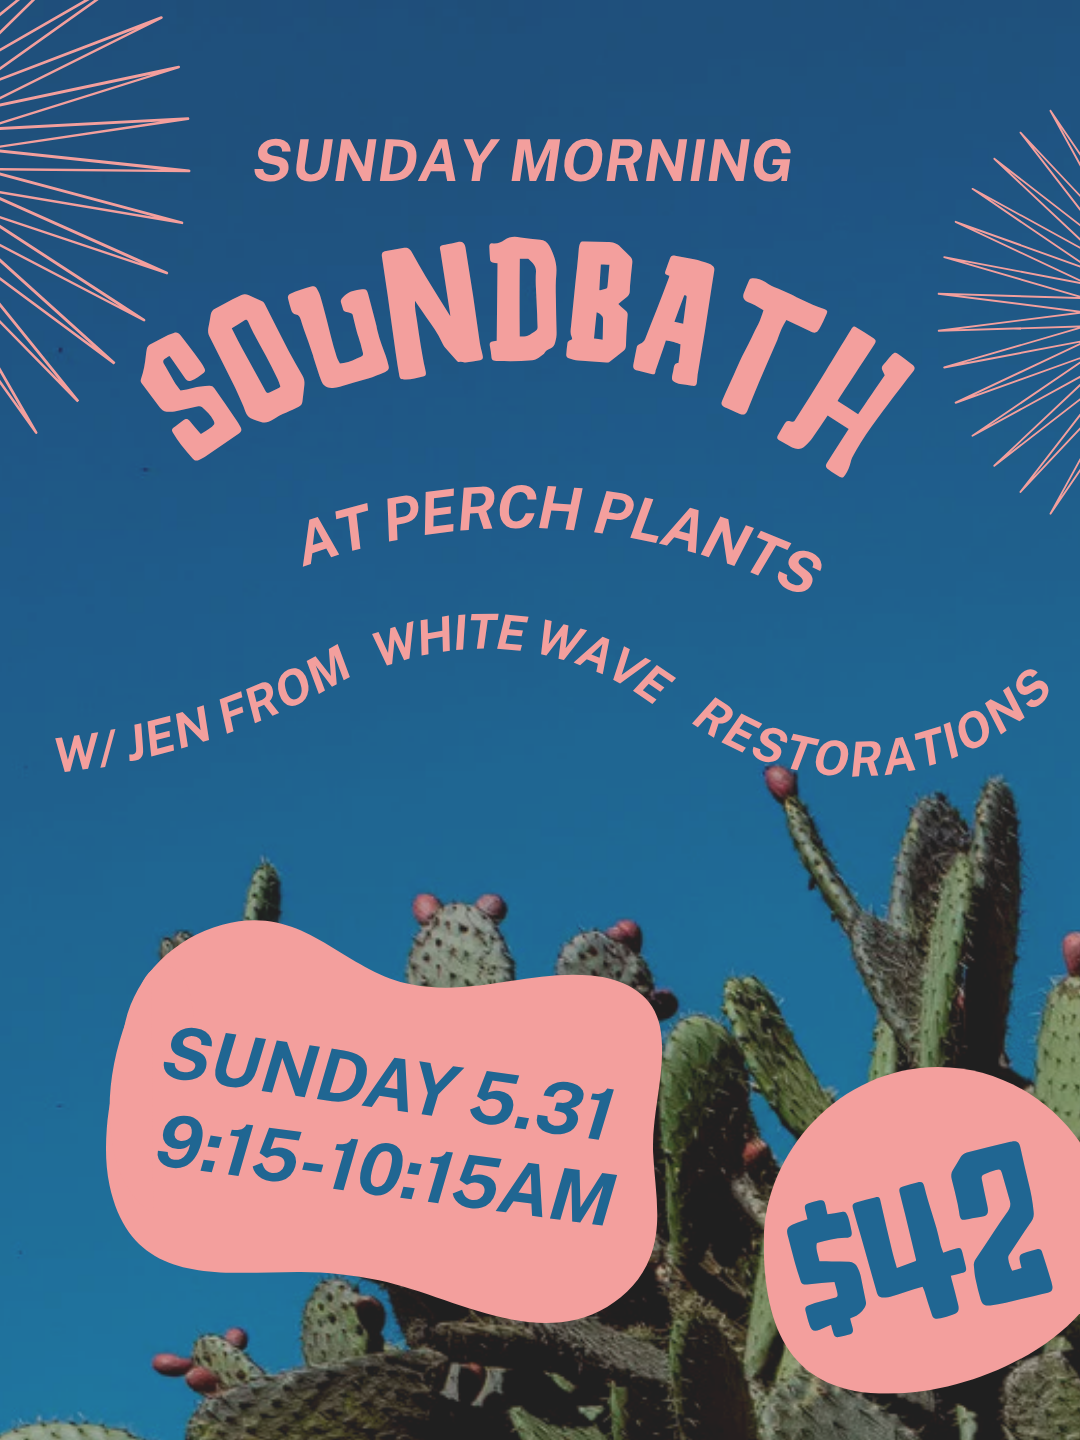
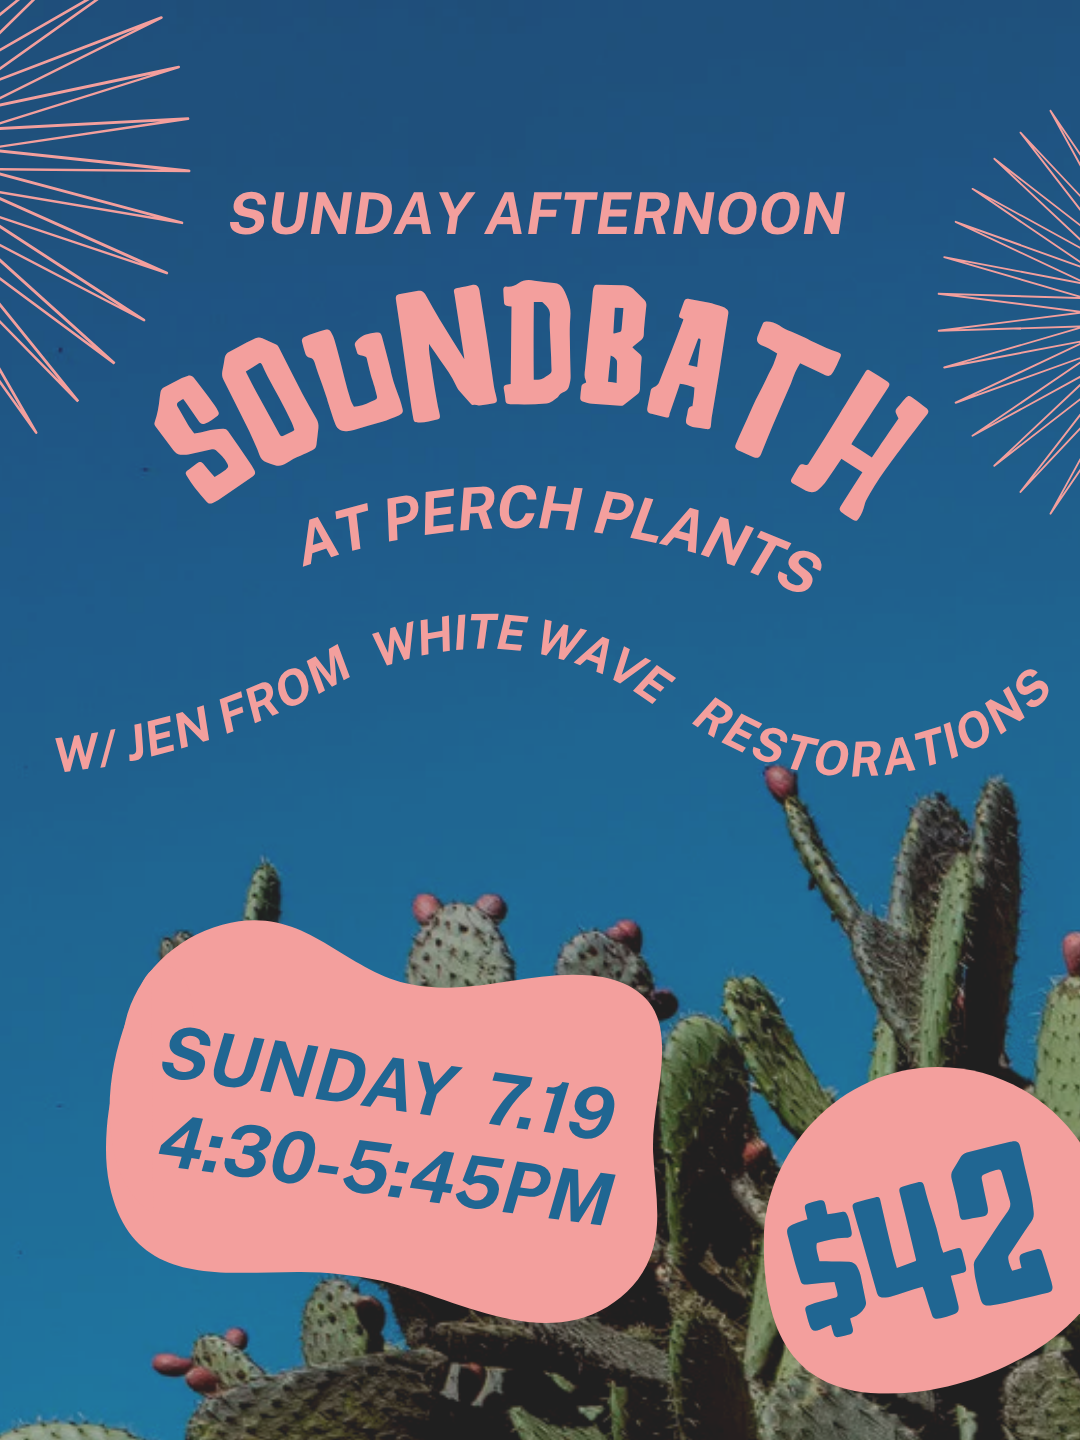
updates bioactive date, adds clipping swap and updated soundbath

Changed region(s): [[0.1222, 0.0938, 0.8556, 0.375], [0.1528, 0.7188, 0.5806, 0.8438]]

diff --git a/index.html b/index.html
@@ -116,12 +116,98 @@
         <div class="eventGroup">
           
           
+          <article class="event">
+            <div class="eventHeader">
+              <img src="./img/clippingswap.jpg" alt="Clipping Swap flyer" class="eventFlyer" />
+              <div class="eventTitle">
+                <h3>Clipping Swap</h3>
+                <p class="eventDate">Thursday 6/25 @ 7-9PM</p>
+              </div>
+            </div>
+            <div class="eventDescription">
+              <p class="eventDescriptionText">
+                Free event. Bring 1-3 clippings.
+              </p>
+              <p class="eventDescriptionText">
+                All plant enthusiast levels welcome.
+              </p>
+              <div class="eventDescriptionText">
+                <ul class="eventListText">
+                  <li>Make sure that your plant appears pest free and healthy before you take a clipping.</li>
+                  <li>Transport your clipping in water or wrap the end in a wet paper towel.</li>
+                  <li>Drop your clipping off on the clipping table and swap it for a new one.</li>
+                  <li>Hang out in Perch and make new plant friends!</li>
+                  <li>Casual come &amp; go. Anytime between 7-9!</li>
+                </ul>
+              </div>
+              <p class="eventDescriptionText">
+                All items at Perch are 10% off on the night of the swap!
+              </p>
+            </div>
+          </article>
+
+          <!-- <article class="event">
+            <div class="eventHeader">
+              <img src="./img/women.png" alt="Women's History Lesson flyer" class="eventFlyer" />
+              <div class="eventTitle">
+                <h3>Women's History Lesson</h3>
+                <p class="eventSubTitle">with Ryan Conroy</p>
+                <strike>
+                  <p class="eventDate">Wednesday 3/25 @ 7PM
+                    <br />Tuesday 3/31 @ 7PM</strike> SOLD OUT!</p>
+              </div>
+            </div>
+            <div class="eventDescription">
+              <p class="eventDescriptionText">
+                Perch Plants is hosting a fun history lesson about local Graceanna Lewis. Learn all about her contributions to botany, nature studies, and social justice work.
+              </p>
+              <p class="eventDescriptionText">
+                You will then build a decorative botany specimen shadowbox to take home, inspired by Graceanna's work.
+              </p>
+              <p class="eventDescriptionText">
+                <strong>$36 includes history lesson + activity</strong>
+              </p>
+              <a href="https://buy.stripe.com/aFa8wO6VB7nV4Yk0En9IQ0F">
+                <button class="signUpBtn">Sign up here!</button>
+              </a>
+            </div>
+          </article> -->
+
+          <article class="event">
+            <div class="eventHeader">
+              <img src="./img/soundbath.png" alt="Sunday Morning Soundbath flyer" class="eventFlyer" />
+              <div class="eventTitle">
+                <h3>Sunday Morning Soundbath</h3>
+                <p class="eventDate">Sunday 7/19 @ 4:30-5:45PM</p>
+              </div>
+            </div>
+            <div class="eventDescription">
+              <p class="eventDescriptionText">
+                Dip into a deep rest &amp; digest state with a Perch Plants sound immersion prior to your jaunt to a Phoenixville brunch! Inside out season is here!
+              </p>
+              <p class="eventDescriptionText">
+                Immerse among the green at Perch Plants while receiving a multi-flavored soundbath intended for your relaxation. The presence of the plants truly give a deeper experience of feeling held and being able to surrender.
+              </p>
+              <p class="eventDescriptionText">
+                Enjoy 15% off a drink at Cafe Com Leite after the soundbath!
+              </p>
+              <p class="eventDescriptionText">
+                Pick up a leafy friend and nostalgic knick knacks for 20% off!
+              </p>
+
+              <a href="https://app.acuityscheduling.com/schedule/e93146e0/?appointmentTypeIds%5B%5D=93926491&utm_id=97760_v0_s00_e0_tv4&fbclid=PAVERFWASmHw9leHRuA2FlbQIxMABzcnRjBmFwcF9pZA8xMjQwMjQ1NzQyODc0MTQAAadc7msQEDQ8wuOI-iTbPmZUwst1NVv1I7Et8JY3u9dVXnP5AD8oL_2-EGCRow_aem_FVp2NJHM5pn1wbWfKGJTbg">
+                <button class="signUpBtn">Sign up here!</button>
+              </a>
+
+            </div>
+          </article>
+
          <article class="event">
             <div class="eventHeader">
               <img src="./img/bioactive.png" alt="Bioactive Terrarium Workshop flyer" class="eventFlyer" />
               <div class="eventTitle">
                 <h3>Bioactive Terrarium Workshop</h3>
-                <p class="eventDate">Tuesday 6/16 @ 6:30PM</p>
+                <p class="eventDate">Tuesday 7/21 @ 6:30PM</p>
               </div>
             </div>
             <div class="eventDescription">
@@ -157,63 +243,6 @@
               </a>
             </div>
           </article>
-
-          <!-- <article class="event">
-            <div class="eventHeader">
-              <img src="./img/women.png" alt="Women's History Lesson flyer" class="eventFlyer" />
-              <div class="eventTitle">
-                <h3>Women's History Lesson</h3>
-                <p class="eventSubTitle">with Ryan Conroy</p>
-                <strike>
-                  <p class="eventDate">Wednesday 3/25 @ 7PM
-                    <br />Tuesday 3/31 @ 7PM</strike> SOLD OUT!</p>
-              </div>
-            </div>
-            <div class="eventDescription">
-              <p class="eventDescriptionText">
-                Perch Plants is hosting a fun history lesson about local Graceanna Lewis. Learn all about her contributions to botany, nature studies, and social justice work.
-              </p>
-              <p class="eventDescriptionText">
-                You will then build a decorative botany specimen shadowbox to take home, inspired by Graceanna's work.
-              </p>
-              <p class="eventDescriptionText">
-                <strong>$36 includes history lesson + activity</strong>
-              </p>
-              <a href="https://buy.stripe.com/aFa8wO6VB7nV4Yk0En9IQ0F">
-                <button class="signUpBtn">Sign up here!</button>
-              </a>
-            </div>
-          </article> -->
-
-          <!-- <article class="event">
-            <div class="eventHeader">
-              <img src="./img/soundbath.png" alt="Bioactive Terrarium Workshop flyer" class="eventFlyer" />
-              <div class="eventTitle">
-                <h3>Sunday Morning Soundbath</h3>
-                
-                <p class="eventDate">Sunday 5/31 @ 9:15-10:15am</p>
-              </div>
-            </div>
-            <div class="eventDescription">
-              <p class="eventDescriptionText">
-                Dip into a deep rest &amp; digest state with a Perch Plants sound immersion prior to your jaunt to a Phoenixville brunch! Inside out season is here!
-              </p>
-              <p class="eventDescriptionText">
-                Immerse among the green at Perch Plants while receiving a multi-flavored soundbath intended for your relaxation. The presence of the plants truly give a deeper experience of feeling held and being able to surrender.
-              </p>
-              <p class="eventDescriptionText">
-                Enjoy 15% off a drink at Cafe Com Leite after the soundbath!
-              </p>
-              <p class="eventDescriptionText">
-                Pick up a leafy friend and nostalgic knick knacks for 20% off!
-              </p>
-              
-              <a href="https://buy.stripe.com/3cI4gy93J37F76saeX9IQ0A">
-                <button class="signUpBtn">Sign up here!</button>
-              </a>
-
-            </div>
-          </article> -->
         </div>
       </section>
 